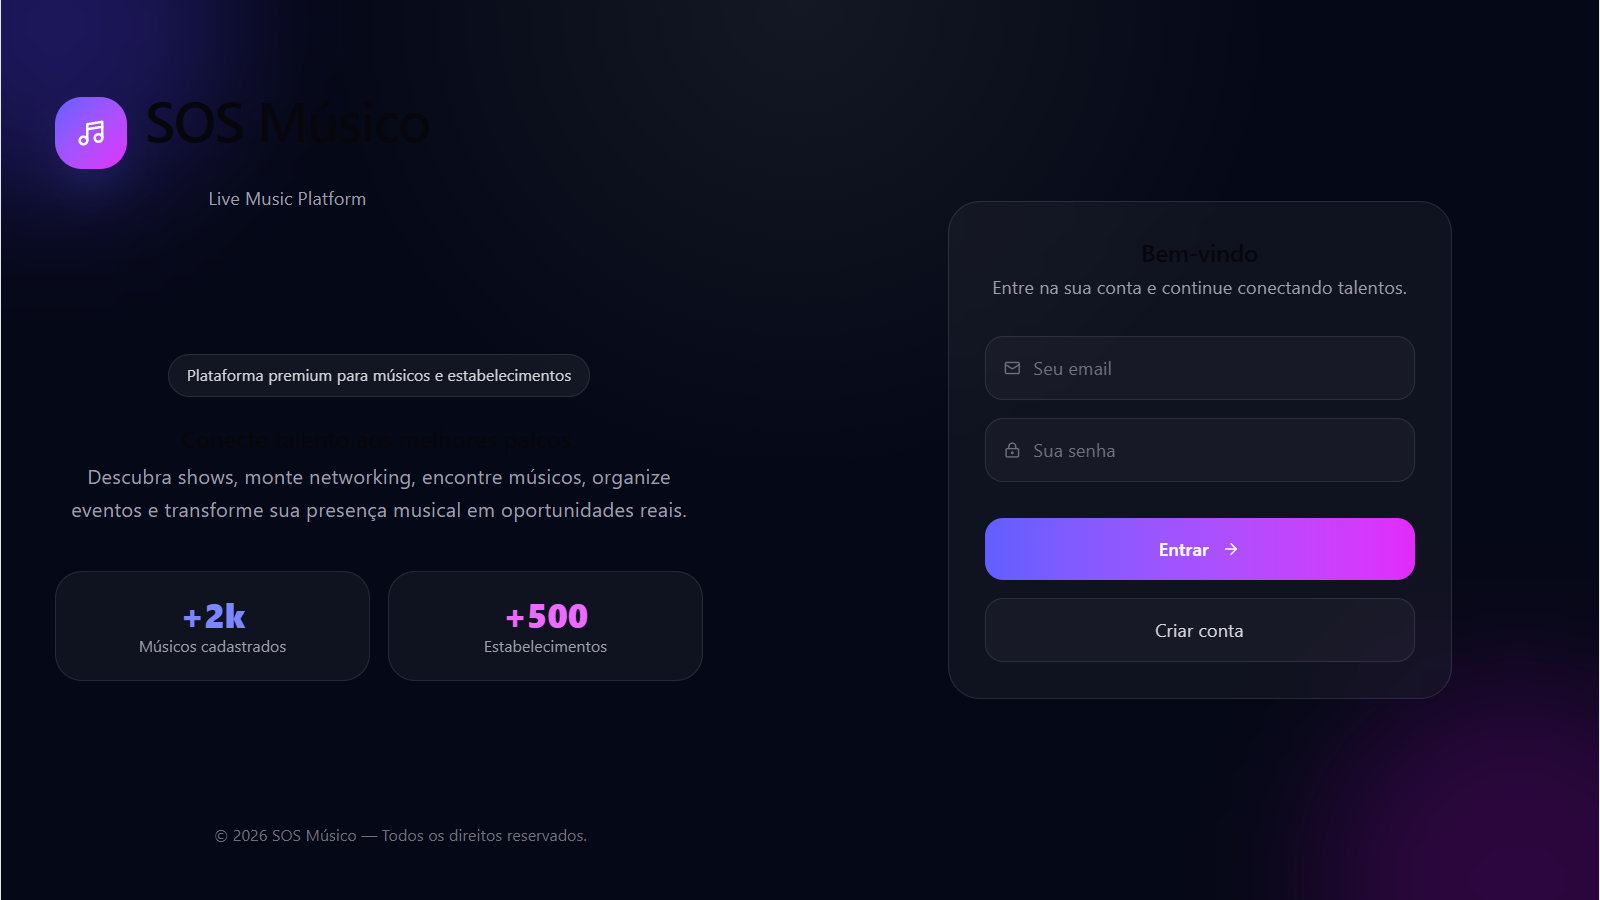
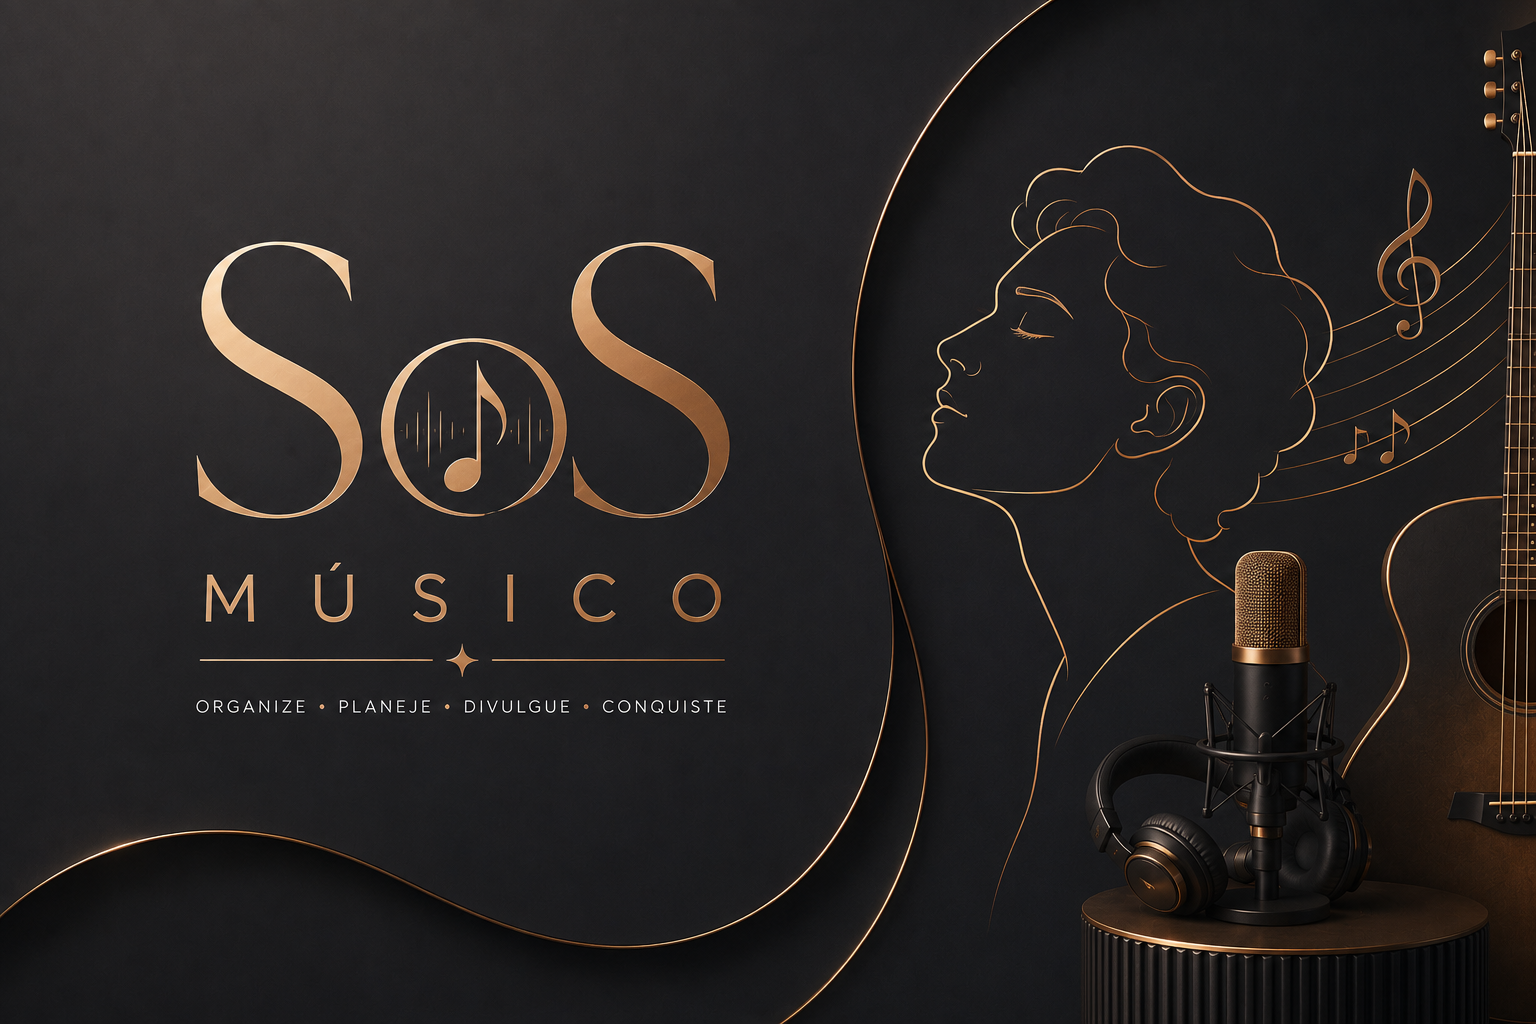
feat: pagina projetos mais adiantada

diff --git a/src/pages/Projetos.jsx b/src/pages/Projetos.jsx
@@ -2,6 +2,8 @@ import { Link } from "react-router-dom";
 import Carrossel from '../componentes/Carrossel';
 import { useState, useEffect } from "react";
 import ModalProjeto from "../componentes/ModalProjetos";
+import Tecnologias from "../componentes/Tecnologias";
+import ProjetosCarrossel from "../componentes/ProjetosCarrossel";
 
 export default function Projetos() {
     const [selectedProject, setSelectedProject] = useState(null);
@@ -24,17 +26,32 @@ export default function Projetos() {
 
     return (
         <div>
-            {/* 
-            <div className="p-10">
-                <Carrossel />
+            <div className="">
+                <ProjetosCarrossel />
             </div>
-            */}
-            <div className="p-5 space-y-8">
+            <div className="p-5 space-y-5">
                 {[
+                    {
+                        img: "/projetos/institucionais/capa-institucionais.png",
+                        images: [
+                            "/projetos/institucionais/modal-1.png",
+                            "/projetos/institucionais/modal-2.png",
+                            "/projetos/saas-juridico-modal2.PNG",
+                            "/projetos/saas-juridico-modal3.PNG",
+                            "/projetos/saas-juridico-modal4.PNG",
+                            "/projetos/saas-juridico-modal5.PNG"
+                        ],
+                        title: "Landing Pages",
+                        description:
+                            "Página institucional moderna com foco em conversão, responsividade e SEO. Estrutura leve e otimizada para performance.",
+                        techs: {
+                            Frontend: ["React", "JavaScript", "Tailwind"]
+                        }
+                    },
                     {
                         img: "/projetos/sos-saude/capa-saude.png",
                         images: [
-                            "/projetos/sos-saude/modal-dashboard.png",
+                            "/projetos/sos-saude/capa-saude2.png",
                             "/projetos/sos-saude/modal-pacientes.png",
                             "/projetos/sos-saude/modal-sessoes.png",
                             "/projetos/sos-saude/modal-prontuario.png",
@@ -51,7 +68,7 @@ export default function Projetos() {
                         }
                     },
                     {
-                        img: "/projetos/saas-juridico.PNG",
+                        img: "/projetos/sos-advocacia/capa-advocacia.png",
                         images: [
                             "/projetos/sos-advocacia/modal-dashboard.png",
                             "/projetos/sos-advocacia/modal-pacientes.png",
@@ -66,23 +83,6 @@ export default function Projetos() {
                             Frontend: ["React", "Vite", "JavaScript", "Tailwind"],
                             Backend: ["Node", "Express",],
                             BancoDeDados: ["Firebase"]
-                        }
-                    },
-                    {
-                        img: "/projetos/institucionais/capa-institucionais.png",
-                        images: [
-                            "/projetos/institucionais/modal-1.png",
-                            "/projetos/institucionais/modal-2.png",
-                            "/projetos/saas-juridico-modal2.PNG",
-                            "/projetos/saas-juridico-modal3.PNG",
-                            "/projetos/saas-juridico-modal4.PNG",
-                            "/projetos/saas-juridico-modal5.PNG"
-                        ],
-                        title: "Landing Pages",
-                        description:
-                            "Página institucional moderna com foco em conversão, responsividade e SEO. Estrutura leve e otimizada para performance.",
-                        techs: {
-                            Frontend: ["React", "JavaScript", "Tailwind"]
                         }
                     },
                     {
@@ -104,6 +104,60 @@ export default function Projetos() {
                         }
                     },
                     {
+                        img: "/projetos/sos-beleza/capa-beleza.png",
+                        images: [
+                            "/projetos/sos-advocacia/modal-dashboard.png",
+                            "/projetos/sos-advocacia/modal-pacientes.png",
+                            "/projetos/sos-advocacia/modal-sessoes.png",
+                            "/projetos/sos-advocacia/modal-agenda.png",
+                            "/projetos/sos-advocacia/modal-documentos.png",
+                            "/projetos/sos-advocacia/modal-mural.png",
+                        ],
+                        title: "SOS Beleza",
+                        description: "Plataforma para escritórios de advocacia. Com ferramentas que possibilitam. Plataforma para psicólogos com prontuário digital, controle de sessões e portal do paciente. Estrutura pensada para multi-tenant e expansão para outros nichos.",
+                        techs: {
+                            Frontend: ["React", "Vite", "JavaScript", "Tailwind"],
+                            Backend: ["Node", "Express",],
+                            BancoDeDados: ["Supabase"]
+                        }
+                    },
+                    {
+                        img: "/projetos/sos-educacao/capa-educacao.png",
+                        images: [
+                            "/projetos/sos-advocacia/modal-dashboard.png",
+                            "/projetos/sos-advocacia/modal-pacientes.png",
+                            "/projetos/sos-advocacia/modal-sessoes.png",
+                            "/projetos/sos-advocacia/modal-agenda.png",
+                            "/projetos/sos-advocacia/modal-documentos.png",
+                            "/projetos/sos-advocacia/modal-mural.png",
+                        ],
+                        title: "SOS Educação",
+                        description: "Plataforma para escritórios de advocacia. Com ferramentas que possibilitam. Plataforma para psicólogos com prontuário digital, controle de sessões e portal do paciente. Estrutura pensada para multi-tenant e expansão para outros nichos.",
+                        techs: {
+                            Frontend: ["React", "Vite", "JavaScript", "Tailwind"],
+                            Backend: ["Node", "Express",],
+                            BancoDeDados: ["Supabase"]
+                        }
+                    },
+                    {
+                        img: "/projetos/sos-estetica/capa-estetica.png",
+                        images: [
+                            "/projetos/sos-advocacia/modal-dashboard.png",
+                            "/projetos/sos-advocacia/modal-pacientes.png",
+                            "/projetos/sos-advocacia/modal-sessoes.png",
+                            "/projetos/sos-advocacia/modal-agenda.png",
+                            "/projetos/sos-advocacia/modal-documentos.png",
+                            "/projetos/sos-advocacia/modal-mural.png",
+                        ],
+                        title: "SOS Estética",
+                        description: "Plataforma para escritórios de advocacia. Com ferramentas que possibilitam. Plataforma para psicólogos com prontuário digital, controle de sessões e portal do paciente. Estrutura pensada para multi-tenant e expansão para outros nichos.",
+                        techs: {
+                            Frontend: ["React", "Vite", "JavaScript", "Tailwind"],
+                            Backend: ["Node", "Express",],
+                            BancoDeDados: ["Supabase"]
+                        }
+                    },                    
+                    {
                         img: "/projetos/numero-secreto.png",
                         images: [
                             "/projetos/institucionais/modal-1.png",
@@ -117,7 +171,7 @@ export default function Projetos() {
                         description:
                             "Página institucional moderna com foco em conversão, responsividade e SEO. Estrutura leve e otimizada para performance.",
                         techs: {
-                            Frontend: ["React", "JavaScript", "Tailwind"]
+                            Frontend: ["HTML", "CSS", "JavaScript", "React", "Tailwind"]
                         }
                     },
 
@@ -125,7 +179,7 @@ export default function Projetos() {
                 ].map((project, index) => (
                     <div
                         key={index}
-                        className="grid md:grid-cols-2 gap-7 items-center"
+                        className="grid md:grid-cols-2 gap-1 items-center"
                     >
 
                         {/* IMAGEM */}
@@ -182,20 +236,20 @@ export default function Projetos() {
                         </div>
 
                         {/* CONTEÚDO */}
-                        <div className="space-y-4">
+                        <div className="space-y-4 border-1 dark:border-yellow-200 rounded-lg h-full p-2">
 
                             <h2 className="text-2xl font-semibold text-center">
                                 {project.title}
                             </h2>
 
                             {/* TECNOLOGIAS */}
-                            <div className="space-y-2 pt-2">
+                            <div className="space-y-2">
 
                                 {Object.entries(project.techs).map(([category, techs]) => (
 
                                     <div key={category}>
 
-                                        <span className="text-xs md:text-xl">
+                                        <span className="text-xs md:text-xl flex justify-center md:justify-start">
                                             {category}:
                                         </span>
 
@@ -222,6 +276,7 @@ export default function Projetos() {
                 ))}
 
             </div>
+
             {selectedProject && (
                 <ModalProjeto
                     project={selectedProject}

diff --git a/src/componentes/ProjetosCarrossel.jsx b/src/componentes/ProjetosCarrossel.jsx
@@ -1,0 +1,27 @@
+
+export default function ProjetosCarrossel() {
+  const projetos = [
+    "/projetos/sos-saude/capa-saude.png",
+    "/projetos/sos-advocacia/capa-advocacia.png",
+    "/projetos/sos-musico/capa-musico.png",
+    "/projetos/sos-beleza/capa-beleza.png",
+    "/projetos/sos-educacao/capa-educacao.png",
+    "/projetos/sos-estetica/capa-estetica.png",
+    "/projetos/institucionais/capa-institucionais.png",
+  ];
+
+  return (
+    <div className="overflow-hidden w-full py-2 bg-sky-800 dark:bg-black">
+      <div className="flex gap-2 animate-slide-reverse whitespace-nowrap">
+        {[...projetos, ...projetos].map((img, index) => (
+          <img
+            key={index}
+            src={img}
+            alt="Projeto"
+            className="h-20 w-auto rounded-lg object-cover flex-shrink-0"
+          />
+        ))}
+      </div>
+    </div>
+  );
+}

diff --git a/src/index.css b/src/index.css
@@ -17,6 +17,21 @@
   animation: slide 15s linear infinite;
 }
 
+@keyframes slide-reverse {
+  from {
+    transform: translateX(-50%);
+  }
+  to {
+    transform: translateX(0);
+  }
+}
+
+.animate-slide-reverse {
+  display: flex;
+  width: max-content;
+  animation: slide-reverse 15s linear infinite;
+}
+
 @custom-variant dark (&:where(.dark, .dark *));
 
 @layer base {
@@ -157,7 +172,7 @@ code {
 }
 
 .borda {
-    @apply border-2 md:border-[5px] border-black dark:border-yellow-300;
+    @apply border-2 md:border-[6px] border-black dark:border-yellow-300;
 }
 
 /* fontes */

diff --git a/src/componentes/Slide.jsx b/src/componentes/Slide.jsx
@@ -2,9 +2,10 @@ import { useState, useEffect } from "react";
 
 export default function Slide() {
     const slides = [
-        "/projetos/sos-saude/capa-saude.png",
+        "/projetos/institucionais/capa-institucionais.png",
+        "/projetos/sos-musico/capa-musico-home.png",
+        "/projetos/sos-advocacia/capa-advocacia-home.png",
         "/projetos/saas-juridico.PNG",
-        "/projetos/sos-musico/capa-musico.png",
     ];
 
     const slidesMobile = [
@@ -66,7 +67,7 @@ export default function Slide() {
 
     return (
         <div
-            className="relative w-[365px] md:w-3xl h-81 md:h-109 overflow-hidden rounded-xl borda"
+            className="relative w-[365px] md:w-188 h-81 md:h-109 overflow-hidden rounded-xl borda"
             onMouseDown={(e) => handleStart(e.clientX)}
             onMouseUp={(e) => handleEnd(e.clientX)}
             onTouchStart={(e) => handleStart(e.touches[0].clientX)}
@@ -77,7 +78,7 @@ export default function Slide() {
                     key={index}
                     src={img}
                     alt={`slide ${index}`}
-                    className={`absolute top-0 left-0 w-full h-full object-contain object-top transition-opacity duration-700 ${index === current
+                    className={`absolute top-0 left-0 w-full h-full object-cover object-top transition-opacity duration-700 ${index === current
                         ? "opacity-100"
                         : "opacity-0"
                         }`}
@@ -90,7 +91,7 @@ export default function Slide() {
                     <span
                         key={i}
                         onClick={() => setCurrent(i)}
-                        className={`h-2 rounded-full cursor-pointer transition-all ${current === i
+                        className={`h-2 border-1 rounded-full cursor-pointer transition-all ${current === i
                             ? "w-6 bg-white"
                             : "w-2 bg-white/50"
                             }`}

diff --git a/src/componentes/ModalProjetos.jsx b/src/componentes/ModalProjetos.jsx
@@ -15,12 +15,12 @@ export default function ModalProjeto({ project, onClose }) {
                 {/* BOTÃO FECHAR */}
                 <button
                     onClick={onClose}
-                    className="absolute top-4 right-4 z-50 text-white bg-black/70 px-3 py-1 rounded"
+                    className="absolute top-4 right-4 z-50 text-white bg-black/70 px-2 py-1 rounded"
                 >
                     ✕
                 </button>
 
-                <div className="grid grid-cols-1 md:grid-cols-[45%_55%] md:h-full">
+                <div className="grid grid-cols-1 md:grid-cols-[55%_45%] md:h-full">
 
                     {/* CARROSSEL */}
                     <div className="h-[50vh] md:h-full overflow-hidden relative">

diff --git a/src/componentes/Navbar.jsx b/src/componentes/Navbar.jsx
@@ -23,7 +23,7 @@ export default function Navbar() {
         <nav className="flex justify-between gap-4 p-6 md:p-10 bg-sky-800 dark:bg-white dark:rounded-b-2xl">
             <div className="flex flex-col md:flex-row items-center justify-center leading-tight"
                 onClick={() => navigate('/')}>
-                <p className="titulo-nome text-3xl md:text-5xl text-center font-medium text-white dark:text-black tracking-tight">Antonni Carlos de Freitas Moreira</p>
+                <p className="titulo-nome text-3xl md:text-4xl text-center font-medium text-white dark:text-black tracking-tight">Antonni Carlos de Freitas Moreira</p>
             </div>
 
             <div className="flex gap-4 text-sm md:text-lg flex-col md:flex-row text-white dark:text-black">

diff --git a/src/componentes/Tecnologias.jsx b/src/componentes/Tecnologias.jsx
@@ -27,7 +27,7 @@ export default function Tecnologias() {
   ];
 
   return (
-    <div className="overflow-hidden w-full py-1 md:py-4 bg-gray-600 mb-5">
+    <div className="overflow-hidden w-full py-1 md:py-4 bg-sky-100 mb-5">
       <div className="flex gap-10 animate-slide whitespace-nowrap">
         {/* duplicação para loop infinito */}
         {[...techs, ...techs].map((img, index) => (